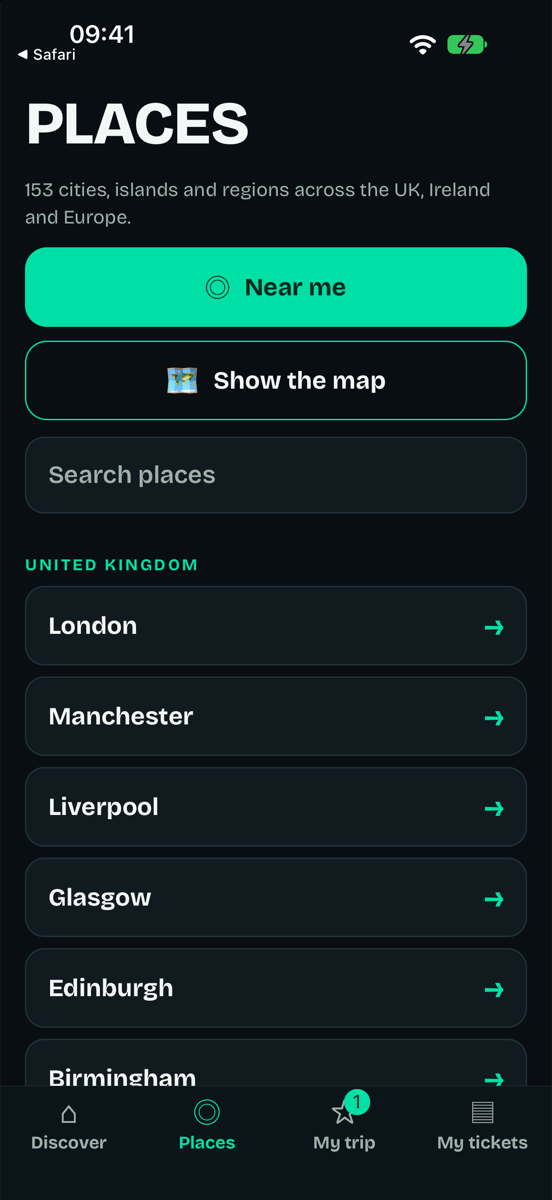
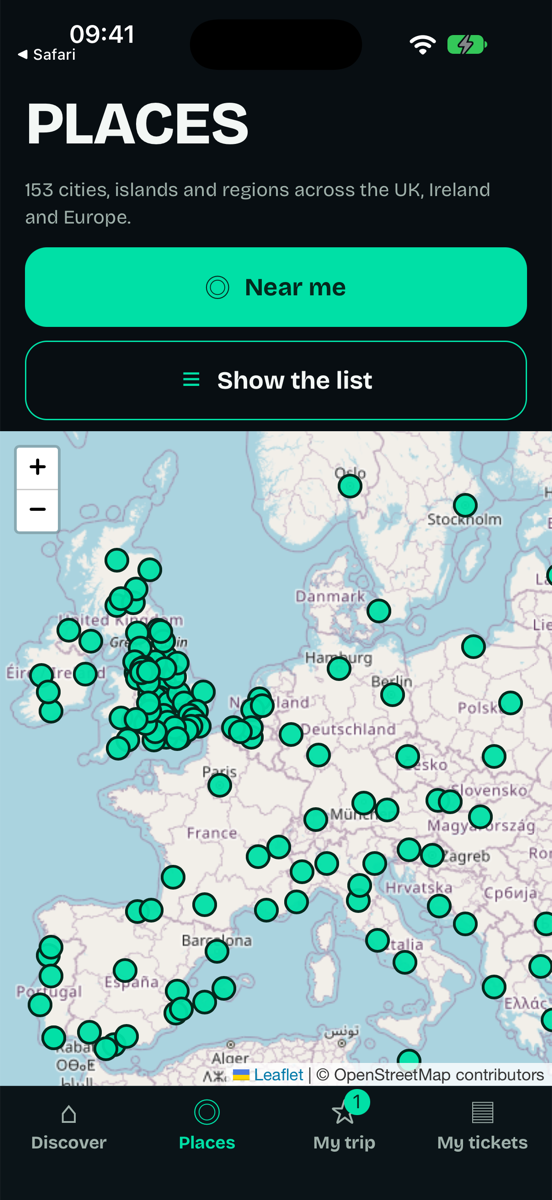
theticketbunker: README and map screenshot

diff --git a/theticketbunker/README.md b/theticketbunker/README.md
@@ -1,0 +1,37 @@
+# theticketbunker — fan app (iPhone, iPad, Android)
+
+The theticketbunker.com experience as a native Expo / React Native app: find events, plan the night, get to the venue and show your tickets at the door. It is set up the same way as the door scanner in `../ticketbunker-scanner-native` (Expo SDK 57, React Native 0.86.3, EAS profiles, Keychain/Keystore session storage).
+
+## Screens
+- **Discover**: "Book it. Head out." / "Your night out, sorted." The home screen has search by place, date (tonight, this weekend, next 7 days) and type, plus Near me, browse by type, popular places and a mixed "On soon" list. The live count shows every listing on sale.
+- **Places**: all 153 city pages from `ticketbunker-site/city-places.js`, grouped by country and searchable. Near me lists the three closest cities. The map uses Leaflet and OpenStreetMap, the same as the site, so it needs no maps API key. Pins come from `city-coords.js`.
+- **City / results lists**: our events plus partner listings, soonest first, with date and type filters. On iPad and tablets (≥ 768 pt wide) the list sits on the left and the chosen event on the right.
+- **Event detail**: every partner listing says "Sold by <seller> · fees may apply". TicketBunker events say "no booking fee". **Get tickets** opens the partner's page (with our tracked link) or the existing TicketBunker checkout at `/event/<slug>` in an in-app browser. The screen also has Add to My trip and Share.
+- **Get to the venue**: Walk, bus/train/metro, Uber, Citymapper (in cities where it runs) and the Tube map (London), from `get-there.js`. "How far is it from here?" works out rough walking and taxi times on the phone. The location never leaves the device.
+- **My trip**: the night planner from the site. Steps are tickets, getting there, travel, a bed, food and things to do. Partners not yet approved show "Coming soon". Saved on the phone only.
+- **My tickets**: the TicketBunker sign-in from the website (Supabase, publishable key only), `/api/my-event-tickets`, and each ticket with the same door QR as the ticket web page. Apple Wallet appears on iOS and Google Wallet on Android.
+
+## Shared code with the website
+`metro.config.cjs` watches `../ticketbunker-site`, and `lib/site.js` imports the site's own `discovery-model.js`, `get-there.js`, `trip-partners.js`, `city-places.js`, `city-coords.js` and `gyg-box.js`. A change to listing rules, directions or partners on the site therefore reaches the app on its next build. `lib/planner.js` mirrors the plan logic of `night-planner.js`, because that file also drives the site's dialog and cannot load outside a browser.
+
+Data comes only from the live site: `/api/partner-feed?city=`, `/api/events`, `/api/my-event-tickets`, `/api/event-ticket` and `/api/event-wallet`. The app contains no sample or demo events.
+
+## Run and test
+```bash
+cd theticketbunker
+npm ci
+npm test
+npm run doctor
+npx expo run:ios       # simulator (LANG=en_US.UTF-8 for pod install)
+npx expo run:android   # emulator
+```
+
+## Release (Steve)
+- iOS and Android always ship together, with the same `version` in `app.json` (tests check this).
+- The bundle ID and package are `pt.soundbunker.theticketbunker`. Reserve them before the first upload.
+- `app.json` has no EAS `projectId` yet. Run `eas init` (owner `soundbunker`), then create the App Store Connect record and put its `ascAppId` into `eas.json` under `submit.production.ios`.
+- Store builds need `EXPO_TOKEN`, or use the scanner's local signing route.
+- Before App Review:
+  - **Account deletion:** the app only signs in; accounts are created on the website or at checkout. Apple still expects a way to delete an account from the app (guideline 5.1.1(v)), and the site has none yet.
+  - **Privacy labels:** location is used on the device only and not collected. The email is used for sign-in.
+  - **App Review login:** give App Review a buyer login that has a valid ticket.
